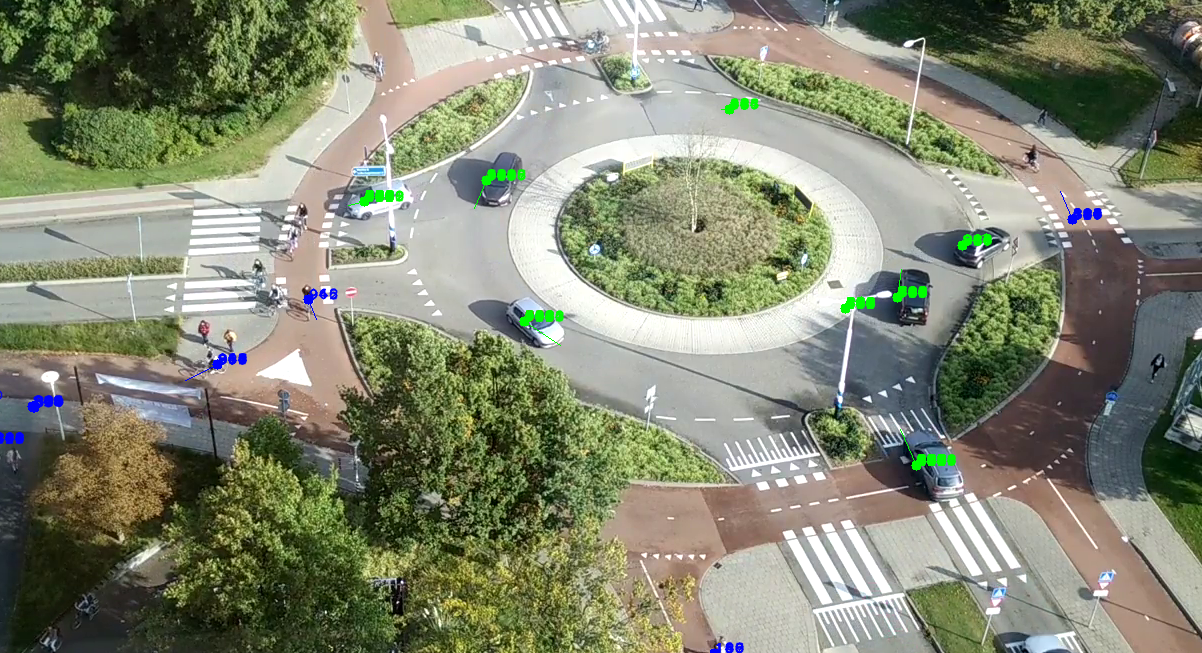
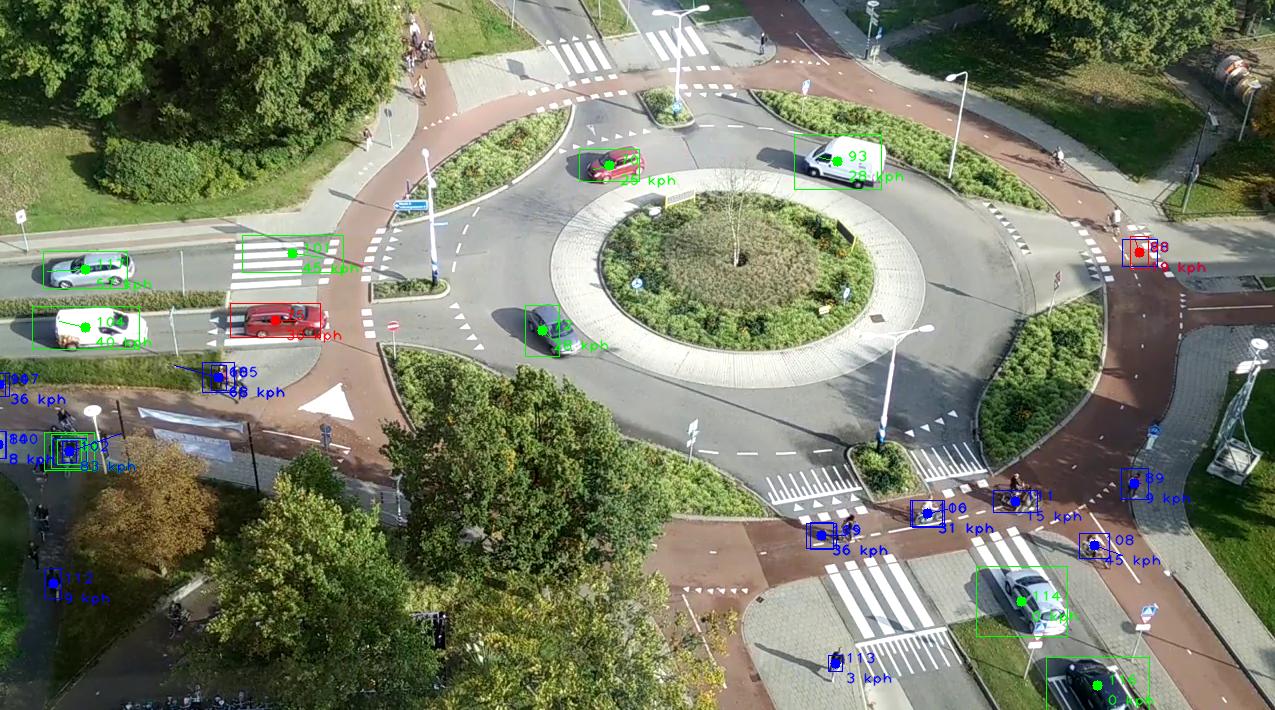
Derp

diff --git a/source/monitor.cpp b/source/monitor.cpp
@@ -79,8 +79,7 @@ class Monitor {
 				for (int j = 0; j < this->objects.size(); j++) {
 					// Object still has not been updated in this frame.
 					if (this->objects[j].frame < frame_count) {
-
-						if (intersectPointCircle(moving[i].pt, 40.0, this->objects[j].position())) {
+						if (intersectPointCircle(moving[i].pt, 30.0, this->objects[j].position())) {
 							cv::Point pos = cv::Point(moving[i].pt.x, moving[i].pt.y);
 							this->objects[j].updatePosition(pos, frame_count);
 						}
@@ -90,35 +89,40 @@ class Monitor {
 
 
 			// If an object has not been seen for more than n frames remove it
-			static const int max_age = 10000;
-			auto obj_pointer = this->objects.begin();
-			while (obj_pointer < this->objects.end()) {
-				int age = frame_count - (*obj_pointer).frame;
+			static const int max_age = 100;
+			for (auto obj_ptr = this->objects.begin(); obj_ptr < this->objects.end(); obj_ptr++) {
+				int age = frame_count - (*obj_ptr).frame;
 				if (age > max_age) {
-					obj_pointer = this->objects.erase(obj_pointer);
+					obj_ptr = this->objects.erase(obj_ptr);
 					continue;
 				}
-				obj_pointer++;
 			}
 
-	
 			if (frame_count % 30 == 0){
 				// Detect objects using the YOLO DNN
-				std::vector<YOLOObject> yolo_objects = yolo.detect(frame);
-				auto yolo_object = yolo_objects.begin();
+				std::vector<YOLOObject> yolo_objs = yolo.detect(frame);
+				auto yolo_obj = yolo_objs.begin();
 
 				// Check if the boxes detected match one of the objects.
-				while (yolo_object < yolo_objects.end()) {
-					auto obj_pointer = this->objects.begin();
+				while (yolo_obj < yolo_objs.end()) {
+					
 					bool exists = false;
 
-					while (obj_pointer < this->objects.end()) {
-						if (obj_pointer->insideRect(yolo_object->box)) {
+					for(auto obj_ptr = this->objects.begin(); obj_ptr < this->objects.end(); obj_ptr++) {	
+						// Scale the box to prevent false detections
+						float scale = 0.9;
+						cv::Rect box = yolo_obj->box;
+						box.width *= scale;
+						box.height *= scale;
 
+						// Center of the bouding box 
+						cv::Point center = cv::Point(box.x + box.width / 2.0, box.y + box.height / 2.0);
+
+						if (obj_ptr->insideRect(box)) {
+							obj_ptr->size = cv::Size(box.width / scale, box.height / scale);
 							exists = true;
 							break;
 						}
-						obj_pointer++;
 					}
 
 					// Create new object in the list
@@ -126,22 +130,23 @@ class Monitor {
 						StreetObject obj;
 
 						// Vehicles
-						if (yolo_object->class_id >= 2 && yolo_object->class_id <= 7) {
+						if (yolo_obj->class_id >= 2 && yolo_obj->class_id <= 7) {
 							obj.category = vehicle;
 						// Pedestrians
-						} else if (yolo_object->class_id < 2) {
+						} else if (yolo_obj->class_id < 2) {
 							obj.category = pedestrian;
 						} else {
 							obj.category = unknown;
 						}
 
-						cv::Rect box = yolo_object->box;
+						cv::Rect box = yolo_obj->box;
+						obj.size = cv::Size(box.width, box.height);
 						obj.updatePosition(cv::Point(box.x + box.width / 2.0, box.y + box.height / 2.0), frame_count);
 						this->objects.push_back(obj);
 					}
 
 
-					yolo_object++;
+					yolo_obj++;
 				}
 			}
 
@@ -156,24 +161,30 @@ class Monitor {
 		 */
 		void drawDebug(cv::Mat *frame) {
 			// Draw objects into the frame
-			auto obj_pointer = this->objects.begin();
-			while (obj_pointer < this->objects.end()) {
-				if (obj_pointer->length() > 0) {
-					cv::Point position = obj_pointer->position();
+			auto obj_ptr = this->objects.begin();
+			while (obj_ptr < this->objects.end()) {
+				if (obj_ptr->length() > 0) {
+					cv::Point pos = obj_ptr->position();
 					
-					cv::Scalar color = obj_pointer->category == vehicle ? cv::Scalar(0,255,0) : obj_pointer->category == pedestrian ? cv::Scalar(255,0,0) : cv::Scalar(0,0,255);
-					cv::circle(*frame, position, 5, color, cv::FILLED, cv::LINE_8);
+					cv::Scalar color = obj_ptr->category == vehicle ? cv::Scalar(0,255,0) : obj_ptr->category == pedestrian ? cv::Scalar(255,0,0) : cv::Scalar(0,0,255);
+					cv::circle(*frame, pos, 5, color, cv::FILLED, cv::LINE_8);
 					
-					cv::putText(*frame, std::to_string(obj_pointer->id), position, cv::FONT_HERSHEY_PLAIN, 1.0, color, 1, cv::LINE_AA);
 
-					cv::Point direction = obj_pointer->direction();
-					cv::line(*frame, position, position + direction * 4, color, 1, cv::LINE_8);
+					cv::Point direction = obj_ptr->direction();
+					cv::line(*frame, pos, pos + direction * 2, color, 1, cv::LINE_8);
 
-					// cv::Rect rect = obj_pointer->boudingBox();
-					// cv::rectangle(*frame, cv::Point(rect.x, rect.y), cv::Point(rect.x + rect.width, rect.y + rect.height), color, 2);
+					cv::putText(*frame, std::to_string(obj_ptr->id), cv::Point(pos.x + 10, pos.y), cv::FONT_HERSHEY_PLAIN, 1.0, color, 1, cv::LINE_AA);
+					
+					float factor = 3.0;
+					int speed = std::round(size(direction) * factor);
+					cv::putText(*frame, std::to_string(speed) + " kph", cv::Point(pos.x + 10, pos.y + 20), cv::FONT_HERSHEY_PLAIN, 1.0, color, 1, cv::LINE_AA);
+
+
+					cv::Rect rect = obj_ptr->boudingBox();
+					cv::rectangle(*frame, cv::Point(rect.x, rect.y), cv::Point(rect.x + rect.width, rect.y + rect.height), color, 1);
 				}
 	
-				obj_pointer++;
+				obj_ptr++;
 			}
 
 			cv::imshow("Frame", *frame);

diff --git a/source/math_utils.cpp b/source/math_utils.cpp
@@ -3,6 +3,14 @@
 
 #pragma once
 
+/**
+ * @brief Calculate the size of the vector.
+ */
+float size(cv::Point a)
+{
+    return sqrt(pow(a.x, 2) + pow(a.y, 2));
+}
+
 
 /**
  * @brief Calculate the distance between two points.

diff --git a/README.md b/README.md
@@ -1,6 +1,11 @@
 # Street Monitor
  - Keeps track of pedestrians and vehicles in the road.
- - Segment zones of the image where vehicles and pedestrians move.
+ - Tracks the movement and direction of all elements in the road.
+ - Estimates the speed of each object and a direction vector.
+ - Tracking performed based on object centroid position obtained from background subtraction and blob segmentation.
+
+<img src="https://raw.githubusercontent.com/tentone/street-monitor/master/readme/d.png" width="380">
+<img src="https://raw.githubusercontent.com/tentone/street-monitor/master/readme/g.png" width="380">
 
 ### Gettings started
 
@@ -12,7 +17,6 @@
 - Dependencies can also be obtained from the conan package manager (https://conan.io/center/)
     - To install dependencies run `conan install .`.
 
-
 ### Dataset
  - Data for testing can be downloaded from youtube.
  - The file scripts/dataset.sh can be used to obtain test data.
@@ -22,6 +26,9 @@
  - YOLO model is used to classify moving objects such as cars and pedestrians.
  - YOLO V5 is available on https://pytorch.org/hub/ultralytics_yolov5/ / https://github.com/ultralytics/yolov5, check the latest releases on github.
     - The PyTorch models have to be converted into ONNX files.
+
+<img src="https://raw.githubusercontent.com/tentone/street-monitor/master/readme/f.png" width="380">
+<img src="https://raw.githubusercontent.com/tentone/street-monitor/master/readme/a.png" width="380">
 
 ### License
 - This project is distributed under MIT license and can be freely used for commercial applications.
